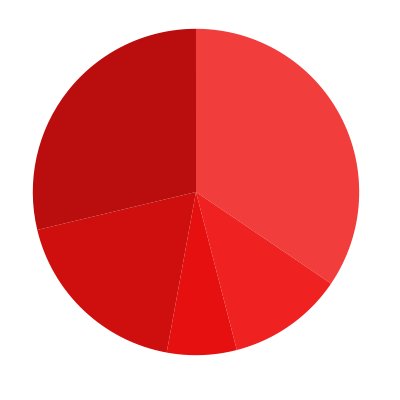
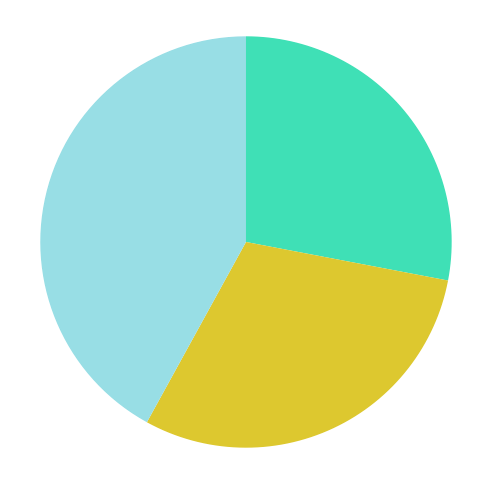
Started implementing Ian's designs.

diff --git a/app/assets/stylesheets/app.scss b/app/assets/stylesheets/app.scss
@@ -1,0 +1,162 @@
+/*
+	Custom CSS for Chartholdr
+*/
+
+/* Charholdr Color Palette */
+$cold-grape: #1a063b;
+$bubble-blue: #1976d2;
+$captains-chair: #3c6e8a;
+$submarine: #ddc82f;
+$giant-kelp: #3fe0b6;
+$squidward: #f4f4f4;
+$dolphin-fart: #98dee5;
+$randy-newman: #ffffff;
+
+h5 {
+	color: black !important;
+}
+
+@mixin linear-gradient($direction, $color-stops...) {
+  // Direction has been omitted and happens to be a color-stop
+  @if is-direction($direction) == false {
+    $color-stops: $direction, $color-stops;
+    $direction: 180deg;
+  }
+ 
+  background: nth(nth($color-stops, 1), 1);
+  background: -webkit-linear-gradient(legacy-direction($direction), $color-stops);
+  background: linear-gradient($direction, $color-stops);
+}
+
+/// Convert a direction to legacy syntax
+/// @param {Keyword | Angle} $value - Value to convert
+/// @require {function} is-direction
+/// @require {function} convert-angle
+/// @throw Cannot convert `#{$value}` to legacy syntax because it doesn't seem to be a direction.;
+@function legacy-direction($value) {
+  @if is-direction($value) == false {
+    @error "Cannot convert `#{$value}` to legacy syntax because it doesn't seem to be a direction.";
+  }
+ 
+  $conversion-map: (
+    to top          : bottom,
+    to top right    : bottom left,
+    to right top    : left bottom,
+    to right        : left,
+    to bottom right : top left,
+    to right bottom : left top,
+    to bottom       : top,
+    to bottom left  : top right,
+    to left bottom  : right top,
+    to left         : right,
+    to left top     : right bottom,
+    to top left     : bottom right
+  );
+ 
+  @if map-has-key($conversion-map, $value) {
+    @return map-get($conversion-map, $value);
+  }
+ 
+  @return 90deg - $value;
+}
+
+/// Test if `$value` is a valid direction
+/// @param {*} $value - Value to test
+/// @return {Bool}
+@function is-direction($value) {
+  $is-keyword: index((to top, to top right, to right top, to right, to bottom right, to right bottom, to bottom, to bottom left, to left bottom, to left, to left top, to top left), $value);
+  $is-angle: type-of($value) == 'number' and index('deg' 'grad' 'turn' 'rad', unit($value));
+  @return $is-keyword or $is-angle;
+}
+
+.links {
+	border: 1px dotted #aaa;
+	padding: 0.5em;
+	text-align: center;
+	display: block;
+	background-color: white;
+}
+
+section {
+	padding: 3em 0;
+}
+
+header .row .title {
+	padding-top: 4em;
+}
+header {
+  padding: 0 20px 50px;
+  text-align: center;
+  // background-color: $dolphin-fart;
+  @include linear-gradient($dolphin-fart, $captains-chair);
+}
+.deepwater {
+	@include linear-gradient($captains-chair, $cold-grape);
+}
+
+
+// Here we define the breakpoints which will become the upper border for each media size.
+// The function em-calc() calculates the em-value from a px-value.
+$small-breakpoint:  em-calc(640)  !default;
+$medium-breakpoint: em-calc(1024) !default;
+$large-breakpoint:  em-calc(1440) !default;
+$xlarge-breakpoint: em-calc(1920) !default;
+
+// Here we define the lower and upper bounds for each media size
+$small-range:   (0, $small-breakpoint) !default; /* 0, 640px */
+$medium-range:  ($small-breakpoint  + em-calc(1), $medium-breakpoint) !default; /* 641px, 1024px */
+$large-range:   ($medium-breakpoint + em-calc(1), $large-breakpoint)  !default; /* 1025px, 1440px */
+$xlarge-range:  ($large-breakpoint  + em-calc(1), $xlarge-breakpoint) !default; /* 1441px, 1920px */
+$xxlarge-range: ($xlarge-breakpoint + em-calc(1), em-calc(99999999)) !default; /* 1921px, ... */
+
+// Media Queries
+$screen: "only screen" !default;
+
+$landscape: "#{$screen} and (orientation: landscape)" !default;
+$portrait: "#{$screen} and (orientation: portrait)" !default;
+
+$small-up: $screen !default;
+$small-only: "#{$screen} and (max-width: #{upper-bound($small-range)})" !default;
+
+$medium-up: "#{$screen} and (min-width:#{lower-bound($medium-range)})" !default;
+$medium-only: "#{$screen} and (min-width:#{lower-bound($medium-range)}) and (max-width:#{upper-bound($medium-range)})" !default;
+
+$large-up: "#{$screen} and (min-width:#{lower-bound($large-range)})" !default;
+$large-only: "#{$screen} and (min-width:#{lower-bound($large-range)}) and (max-width:#{upper-bound($large-range)})" !default;
+
+$xlarge-up: "#{$screen} and (min-width:#{lower-bound($xlarge-range)})" !default;
+$xlarge-only: "#{$screen} and (min-width:#{lower-bound($xlarge-range)}) and (max-width:#{upper-bound($xlarge-range)})" !default;
+
+$xxlarge-up: "#{$screen} and (min-width:#{lower-bound($xxlarge-range)})" !default;
+$xxlarge-only: "#{$screen} and (min-width:#{lower-bound($xxlarge-range)}) and (max-width:#{upper-bound($xxlarge-range)})" !default;
+
+$retina: (
+  "#{$screen} and (-webkit-min-device-pixel-ratio: 2)",
+  "#{$screen} and (min--moz-device-pixel-ratio: 2)",
+  "#{$screen} and (-o-min-device-pixel-ratio: 2/1)",
+  "#{$screen} and (min-device-pixel-ratio: 2)",
+  "#{$screen} and (min-resolution: 192dpi)",
+  "#{$screen} and (min-resolution: 2dppx)"
+);
+
+
+@media #{$small-up} { }
+@media #{$small-only} {
+	header .row .title {
+	padding-top: 0em;
+}
+}
+
+@media #{$medium-up} { }
+@media #{$medium-only} { }
+
+@media #{$large-up} { }
+@media #{$large-only} { }
+
+@media #{$xlarge-up} { }
+@media #{$xlarge-only} { }
+
+@media #{$xxlarge-up} { }
+@media #{$xxlarge-only} { }
+
+

diff --git a/public/stylesheets/pizza.css b/public/stylesheets/pizza.css
@@ -1,17 +1,9 @@
 [data-pie-id] > *:nth-child(7n+1), [data-bar-id] > *:nth-child(7n+1), [data-line-id] > *:nth-child(7n+1) {
-  color: #f23d3d; }
+  color: #3fe0b6; }
 [data-pie-id] > *:nth-child(7n+2), [data-bar-id] > *:nth-child(7n+2), [data-line-id] > *:nth-child(7n+2) {
-  color: #f02121; }
+  color: #ddc82f; }
 [data-pie-id] > *:nth-child(7n+3), [data-bar-id] > *:nth-child(7n+3), [data-line-id] > *:nth-child(7n+3) {
-  color: #e61010; }
-[data-pie-id] > *:nth-child(7n+4), [data-bar-id] > *:nth-child(7n+4), [data-line-id] > *:nth-child(7n+4) {
-  color: #cf0e0e; }
-[data-pie-id] > *:nth-child(7n+5), [data-bar-id] > *:nth-child(7n+5), [data-line-id] > *:nth-child(7n+5) {
-  color: #ba0d0d; }
-[data-pie-id] > *:nth-child(7n+6), [data-bar-id] > *:nth-child(7n+6), [data-line-id] > *:nth-child(7n+6) {
-  color: #a70c0c; }
-[data-pie-id] > *:nth-child(7n+7), [data-bar-id] > *:nth-child(7n+7), [data-line-id] > *:nth-child(7n+7) {
-  color: #960b0b; }
+  color: #98dee5; }
 
 #pie, #donut, #bar {
   max-height: 450px; }

diff --git a/app/assets/stylesheets/foundation_and_overrides.scss b/app/assets/stylesheets/foundation_and_overrides.scss
@@ -2,8 +2,6 @@
 // foundation.zurb.com
 // Licensed under MIT Open Source
 
-//
-
 // Table of Contents
 // Foundation Settings
 //
@@ -213,7 +211,7 @@ $include-html-global-classes: $include-html-classes;
 // $header-font-family: $body-font-family;
 // $header-font-weight: $font-weight-normal;
 // $header-font-style: normal;
-// $header-font-color: $jet;
+ $header-font-color: #ffffff;
 // $header-line-height: 1.4;
 // $header-top-margin: .2rem;
 // $header-bottom-margin: .5rem;
@@ -221,8 +219,8 @@ $include-html-global-classes: $include-html-classes;
 
 // We use these to control header font sizes
 // $h1-font-size: rem-calc(44);
-// $h2-font-size: rem-calc(37);
-// $h3-font-size: rem-calc(27);
+ $h2-font-size: rem-calc(34);
+ $h3-font-size: rem-calc(30);
 // $h4-font-size: rem-calc(23);
 // $h5-font-size: rem-calc(18);
 // $h6-font-size: 1rem;
